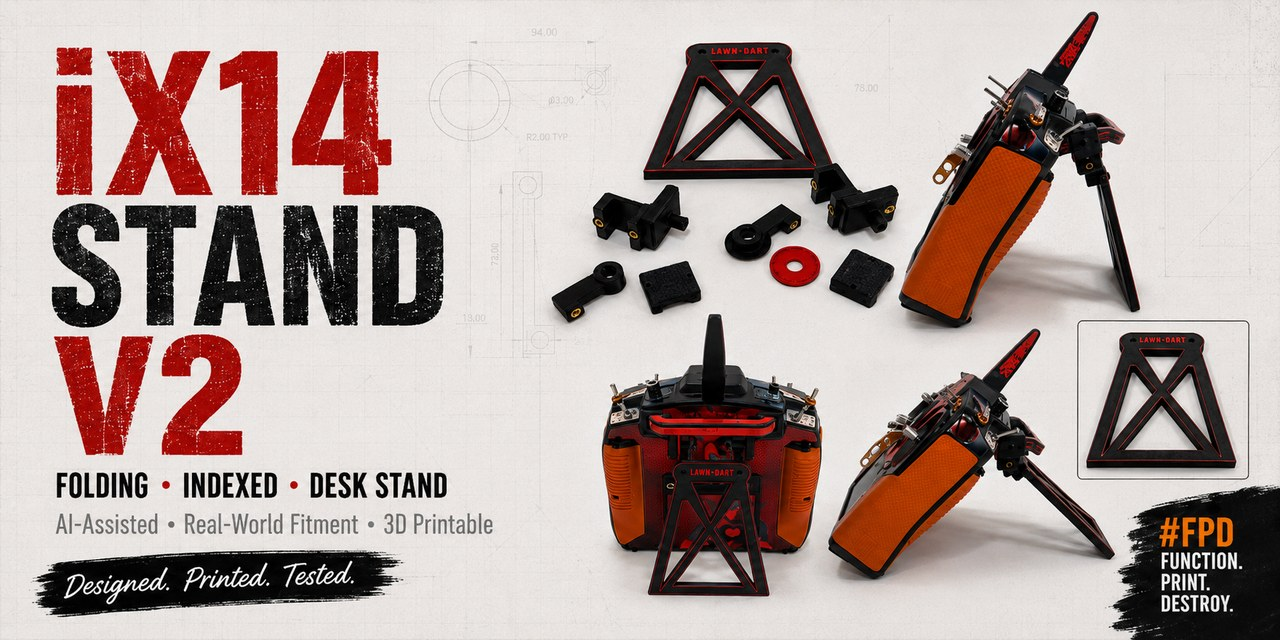
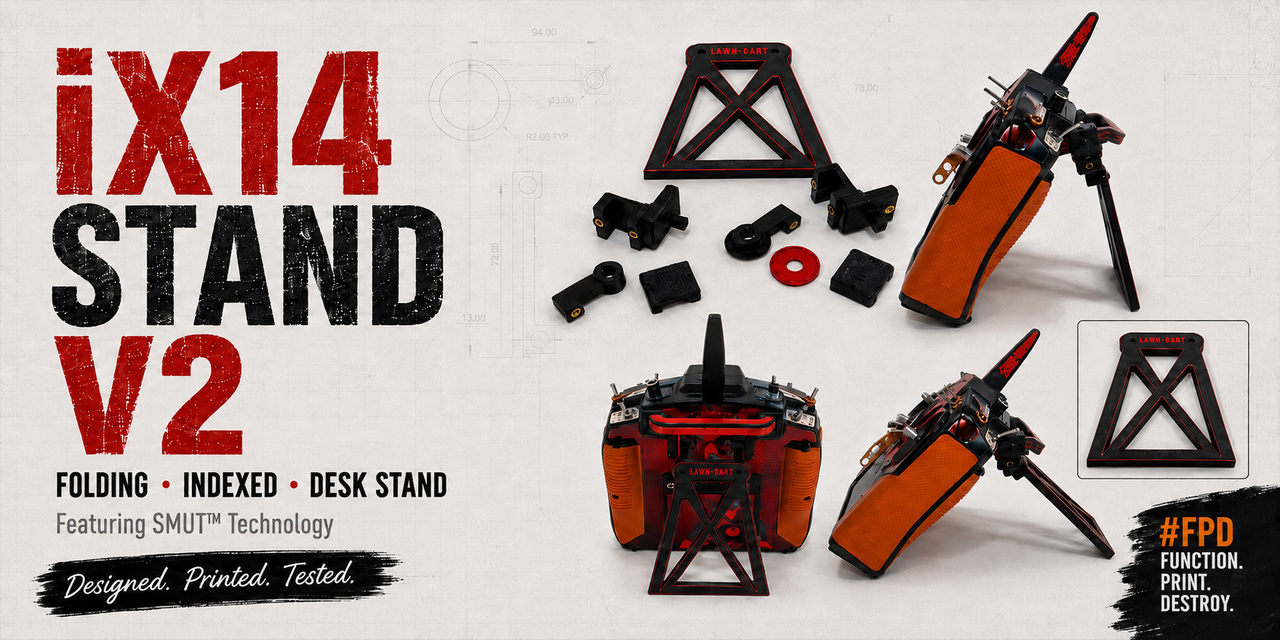
CRAP & SMUT

diff --git a/README.md b/README.md
@@ -4,14 +4,16 @@ A folding, indexed-position desk stand designed for the square carrying handle o
 
 The stand mounts without permanently modifying the radio, folds against the back for storage, and uses a spring-loaded ball plunger with a detent mechanism to provide repeatable viewing positions.
 
+V2 introduces **SMUT™** — **S**ide **M**ount **U**nit **T**echnology: a reusable side-mounted architecture that places independent retained pivots on the individual handle rails instead of relying on a single rear-mounted clamp.
+
 ## Which Version Should I Build?
 
 **Build V2 unless you specifically want to reproduce the original prototype.**
 
 | Version | Status | Design | Recommendation |
 |---|---|---|---|
-| [V2](v2/) | Current design | Two compact assemblies mount around the individual handle rails, with independent pivots and a replaceable detent ring | **Recommended** — more compact, easier to align, leaves more of the handle open, and is substantially more functional |
-| [V1](v1/) | Legacy prototype | One external clamp spans the center of the handle and uses a common through-bolt pivot | Preserved for reference; development stopped after the concept was proven and moved to V2 |
+| [V2](v2/) | Current design | SMUT™ side-mount assemblies with independent pivots and a replaceable detent ring | **Recommended** — more compact, easier to align, leaves more of the handle open, and is substantially more functional |
+| [V1](v1/) | Legacy prototype | CRAP™ rear-mount platform with one external clamp and a common through-bolt pivot | Preserved for reference; development stopped after the concept was proven and moved to V2 |
 
 V1 was successfully printed, assembled, and used as a prototype, but it occupies more handle space, has a taller folded profile, and is less convenient than V2.
 
@@ -26,9 +28,9 @@ Photographs of the actual printed and assembled stands are included with each ve
 
 These are photographs of physical builds, not CAD renders. For installation order and hardware placement, use the version-specific assembly instructions and printable assembly guide.
 
-## V2 — Recommended Build
+## V2 — Recommended SMUT™ Build
 
-V2 is the refined internal-handle design and includes:
+V2 is the first physically validated implementation of SMUT™ and includes:
 
 - independent left and right handle-mounted case assemblies;
 - self-aligning clamp clearance for radio-to-radio manufacturing variation;
@@ -40,6 +42,12 @@ V2 is the refined internal-handle design and includes:
 - a 110 mm stand with paintable chamfers and editable multicolor text;
 - PETG-HF print profiles and tested Bambu Studio plate arrangements.
 
+### Why SMUT™?
+
+**Because rear-entry solutions are unnecessarily restrictive.**
+
+By moving the pivot assemblies to the individual handle rails, SMUT™ preserves full carrying-handle access while providing independent retained pivots, positive indexed positioning, greater range of motion, and a more compact folded profile.
+
 ### Start Here
 
 - [V2 assembly instructions](v2/documentation/assembly-instructions/)
@@ -50,9 +58,9 @@ V2 is the refined internal-handle design and includes:
 
 > **Validation status:** The complete V2 assembly has been physically validated on the radio, including the printed parts, inserts, clamp fit, pivots, stand interface, production M4 × 8 spring-loaded ball plunger, positive detent engagement, full range of motion, folded position, and carrier fit.
 
-## V1 — Legacy Prototype
+## V1 — Legacy CRAP™ Prototype
 
-V1 remains available as the original proof-of-concept design.
+V1 remains available as the original implementation of **CRAP™** — **C**audal **R**ear **A**nchoring **P**latform — and the project's proof-of-concept design.
 
 Its directory contains the printable models, Bambu Studio project, hardware list, and abbreviated assembly documentation needed to reproduce it.
 
@@ -64,6 +72,8 @@ Its directory contains the printable models, Bambu Studio project, hardware list
 V1 was prototyped in PLA using largely default Bambu settings.
 
 No further V1 design development is planned; use V2 for the more practical final implementation.
+
+In architectural terms, development moved from CRAP™ to SMUT™.
 
 ## AI-Assisted Design and Development
 

diff --git a/v1/README.md b/v1/README.md
@@ -1,6 +1,6 @@
-# Spektrum iX14 Stand — V1 Legacy Prototype
+# Spektrum iX14 Stand — V1 Legacy CRAP™ Prototype
 
-V1 is the original proof-of-concept stand. It was successfully printed, assembled, and used to validate the folding detent concept, but development moved to the more compact and functional [V2 design](../v2/).
+V1 is the original implementation of **CRAP™** — **C**audal **R**ear **A**nchoring **P**latform — and the project's proof-of-concept stand. It was successfully printed, assembled, and used to validate the folding detent concept, but development moved to the more compact and functional [V2 SMUT™ design](../v2/).
 
 Build V1 only if you specifically want to reproduce the original prototype. For a new stand, V2 is recommended.
 
@@ -25,3 +25,5 @@ These photographs document the physical build and its usable positions; they are
 - [Printable assembly guide](documentation/exploded-view/)
 
 V1 was prototyped in PLA using largely default Bambu Studio settings. Its complete folding and indexed-detent mechanism has been physically validated with the production M4 × 8 spring-loaded ball plunger. No further V1 design development is planned.
+
+In architectural terms, development moved from CRAP™ to SMUT™.

diff --git a/v1/documentation/assembly-instructions/assembly-instructions.md b/v1/documentation/assembly-instructions/assembly-instructions.md
@@ -1,8 +1,8 @@
-# Assembly Instructions - iX14 Stand V1
+# Assembly Instructions - iX14 Stand V1 CRAP™ System
 
 [Download the printable two-stage assembly guide (PDF)](../exploded-view/ix14-v1-assembly-guide.pdf)
 
-V1 is the original external-handle prototype. It was physically fit-tested and used successfully in PLA, but development moved to V2 because V2 is easier to install, more compact, more adjustable and leaves more of the carrying handle open. **New builders should use V2 unless they specifically want to reproduce the original design.**
+V1 is the original external-handle implementation of **CRAP™** — **C**audal **R**ear **A**nchoring **P**latform. It was physically fit-tested and used successfully in PLA, but development moved to the V2 SMUT™ system because V2 is easier to install, more compact, more adjustable and leaves more of the carrying handle open. **New builders should use V2 unless they specifically want to reproduce the original design.**
 
 > **Hardware status:** the complete V1 mechanism has been physically validated with the production M4 x 8 spring-loaded ball plunger, including positive detent engagement, smooth movement through the full range of motion, and the folded position.
 

diff --git a/v2/README.md b/v2/README.md
@@ -1,6 +1,12 @@
-# Spektrum iX14 Stand — V2 Recommended Design
+# Spektrum iX14 Stand — V2 SMUT™ Recommended Design
 
-V2 is the current and recommended stand design. Its two compact assemblies mount around the individual handle rails, preserving more usable handle space while providing independent retained pivots and a replaceable keyed detent ring.
+V2 is the current and recommended stand design and the first physically validated implementation of **SMUT™** — **S**ide **M**ount **U**nit **T**echnology. Its two compact assemblies mount around the individual handle rails, preserving more usable handle space while providing independent retained pivots and a replaceable keyed detent ring.
+
+## Why SMUT™?
+
+**Because rear-entry solutions are unnecessarily restrictive.**
+
+SMUT™ moves the stand pivots from a single rear-mounted clamp to purpose-designed side-mount assemblies. The result preserves full carrying-handle access while providing positive indexed positioning, greater range of motion, straightforward left-to-right alignment, and a more compact folded profile.
 
 ## Product Images
 

diff --git a/v2/documentation/assembly-instructions/assembly-instructions.md b/v2/documentation/assembly-instructions/assembly-instructions.md
@@ -1,8 +1,8 @@
-# Assembly Instructions — iX14 Stand V2
+# Assembly Instructions — iX14 Stand V2 SMUT™ System
 
 [Download the printable three-stage assembly guide (PDF)](../exploded-view/ix14-v2-assembly-guide.pdf)
 
-These instructions apply to the internal-handle V2 assembly. **Left and right are always described while looking at the front of the radio.**
+These instructions apply to the V2 implementation of **SMUT™** — **S**ide **M**ount **U**nit **T**echnology. Its independent left and right assemblies mount around the individual handle rails. **Left and right are always described while looking at the front of the radio.**
 
 > **Hardware status:** the complete mechanism has been physically validated on the radio with the production M4 × 8 spring-loaded ball plunger. The plunger provides positive engagement at each indexed stand position while preserving smooth movement through the full range of motion.
 
